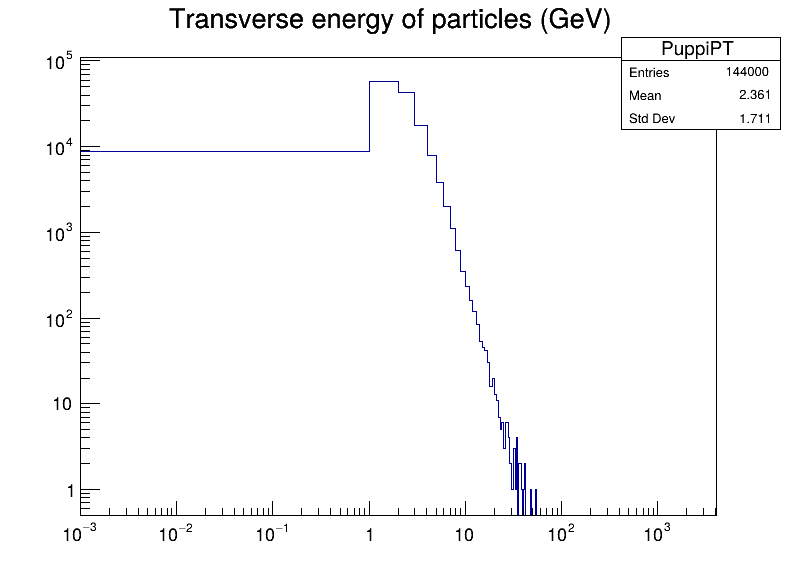
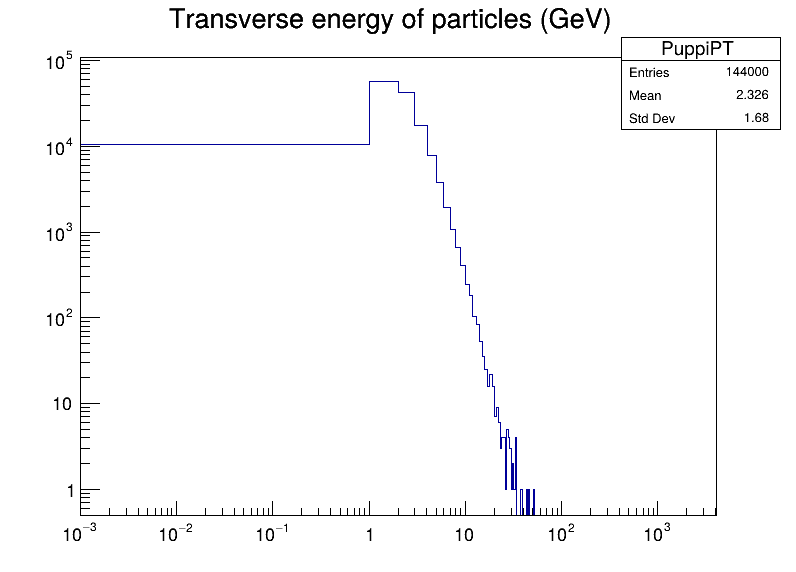
Finally fixed?

diff --git a/data/EventAnalysis.cc b/data/EventAnalysis.cc
@@ -98,8 +98,8 @@ void EventAnalysis::processEvent(Event& event, UltraFastSim &ufs) {
       histograms["RecoParticleEta"]->Fill(eta);
       histograms["RecoParticlePhi"]->Fill(phi);
       puppi.hwPt = l1ct::Scales::makePtFromFloat(pt);
-      puppi.hwEta = l1ct::Scales::makeEta(eta);
-      puppi.hwPhi = l1ct::Scales::makePhi(phi);
+      puppi.hwEta = l1ct::Scales::makeGlbEta(eta);
+      puppi.hwPhi = l1ct::Scales::makeGlbPhi(phi);
       if (particle.GetPdgCode() == 11) {
 	puppi.pid = l1ct::ParticleID::PID::ELEMINUS;
       }
